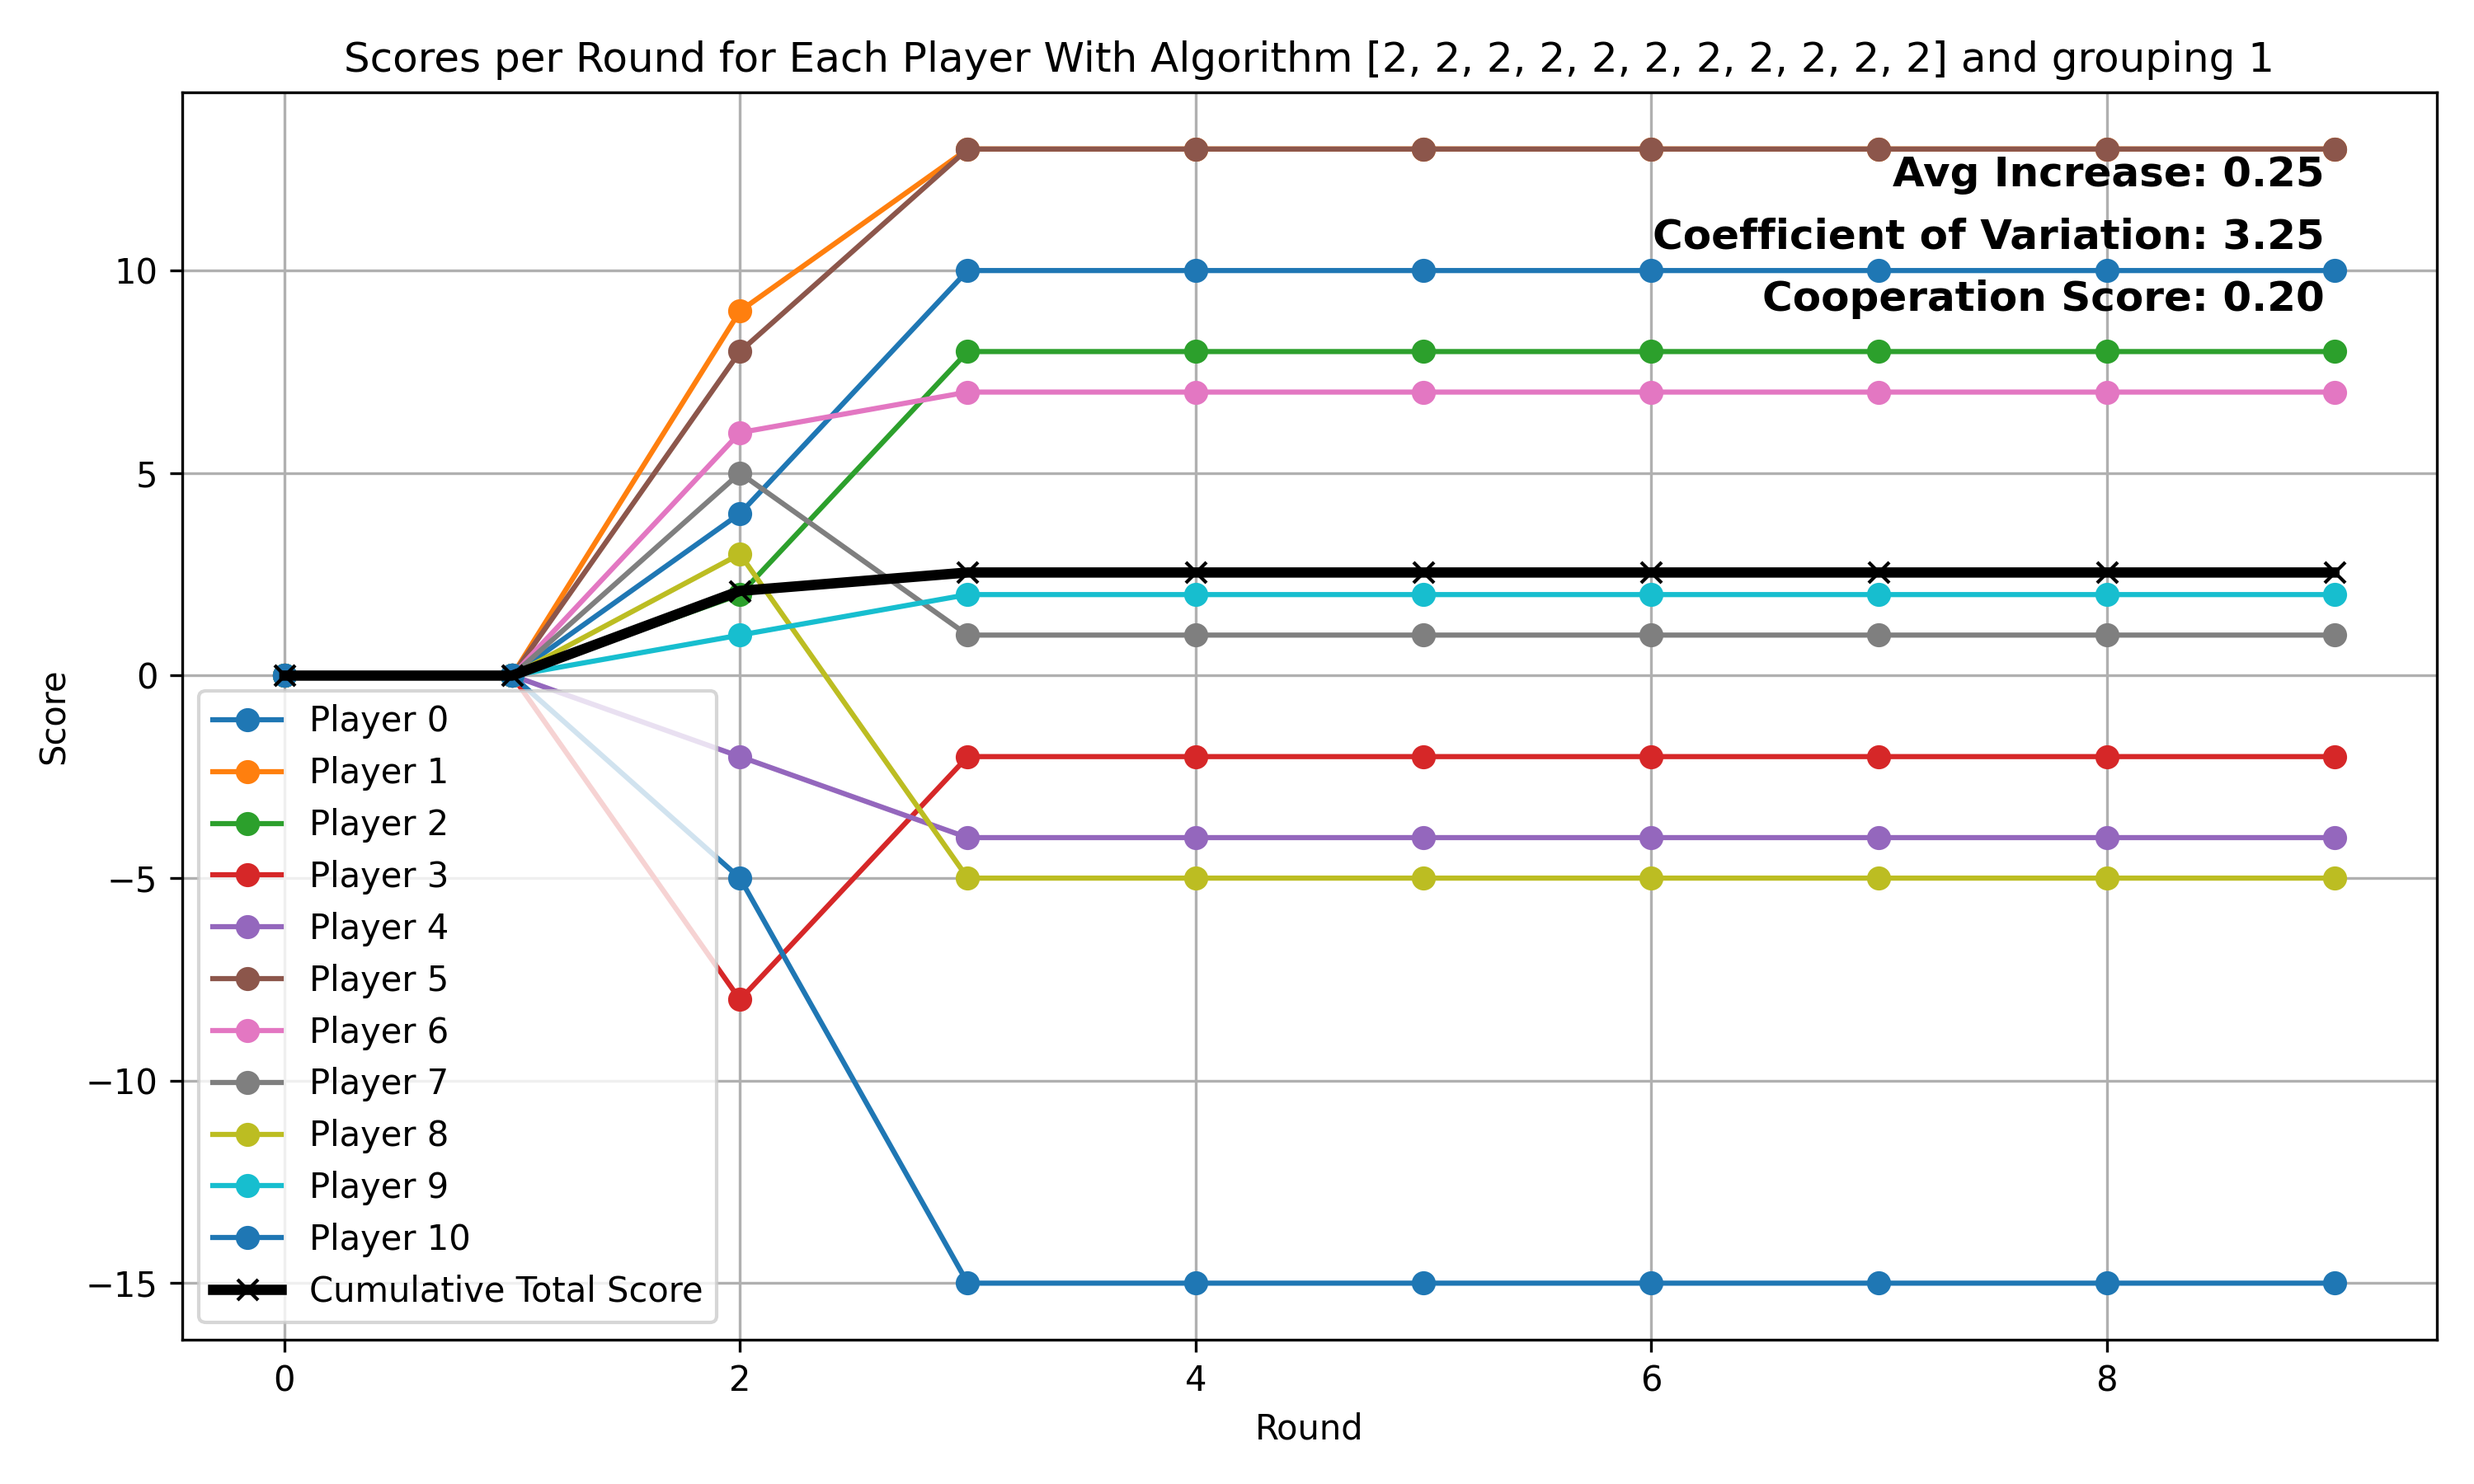
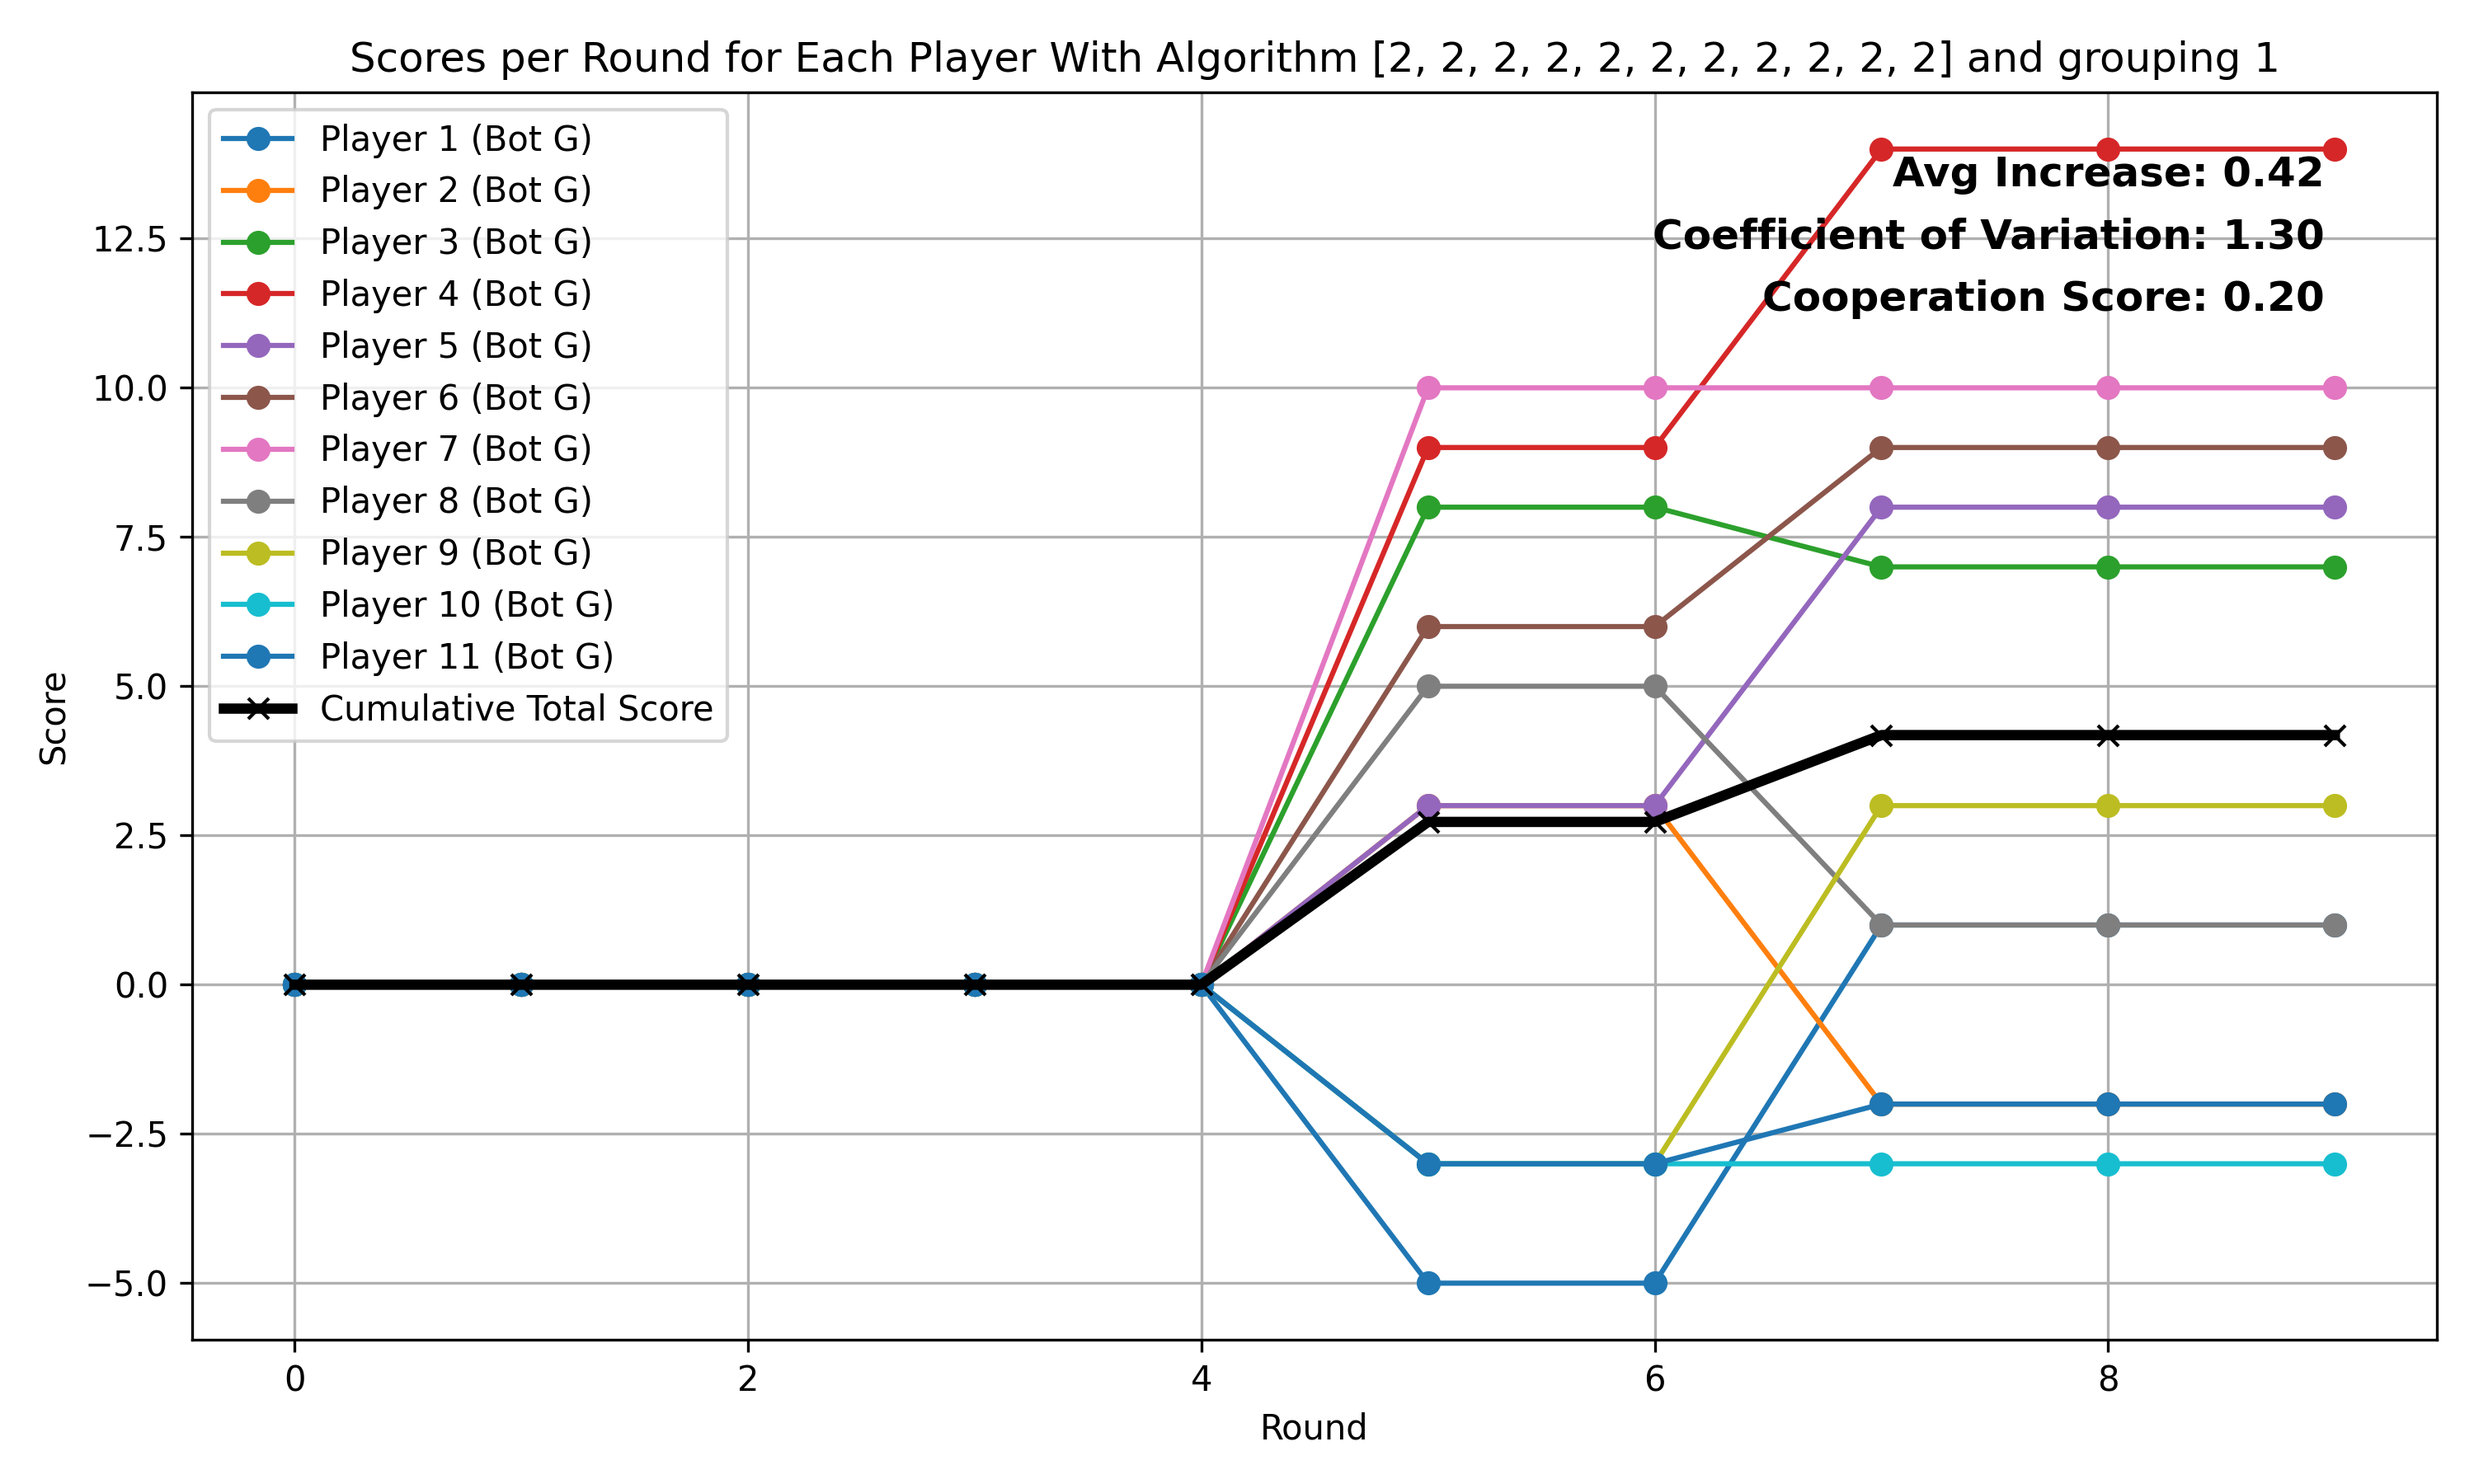
all logging tools are a go
all logging tools are a go. now onto trying to do things with players so they get logged as well.

diff --git a/offlineSimStuff/variousGraphingTools/causeNodeGraphVisualizer.py b/offlineSimStuff/variousGraphingTools/causeNodeGraphVisualizer.py
@@ -8,6 +8,7 @@ import matplotlib.gridspec as gridspec
 from pathlib import Path
 from matplotlib.patches import Patch
 import os
+import numpy as np # for col sums
 
 class causeNodeGraphVisualizer:
     def __init__(self):
@@ -66,7 +67,9 @@ class causeNodeGraphVisualizer:
         ax_matrix.axis('off')
 
         num_rows = len(current_options_matrix)
-        max_cols = max(len(row) for row in current_options_matrix) if current_options_matrix else 0
+        matrix_array = np.array(current_options_matrix)
+        col_sums = matrix_array.sum(axis=0)
+        best_option = int(np.argmax(col_sums)) + 1  # gets the index of the best option and adds one to it
 
         for i in range(num_rows):
             vote = all_votes.get(i) # tries to get it through an int first, from real time execution
@@ -85,8 +88,18 @@ class causeNodeGraphVisualizer:
                            fontfamily='monospace',
                            bbox=dict(boxstyle='round,pad=0.2', facecolor='whitesmoke', edgecolor='gray'))
 
+        # code to add teh column sums
+        best_option = int(np.argmax(col_sums)) + 1  # +1 to match display indexing
+        formatted_sums = " ".join(f"{val:>2}" for val in col_sums)
+        sum_text = f"Σ  | {formatted_sums} | {best_option:>2}"
+
+        ax_matrix.text(0, -num_rows, sum_text, ha='left', va='center', fontsize=12,
+                       fontfamily='monospace',
+                       bbox=dict(boxstyle='round,pad=0.2', facecolor='#e6f2ff', edgecolor='gray'))
+
+        # Update the plot limits to make space for the sum row + winning vote
         ax_matrix.set_xlim(-1, 10)
-        ax_matrix.set_ylim(-num_rows, 1)
+        ax_matrix.set_ylim(-num_rows - 3, 1)
 
         # --- Add Winning Vote Text Below Matrix ---
         ax_matrix.text(1, -num_rows - 1, f"Winning vote: {winning_vote + 1}", ha='left', va='center',
@@ -164,10 +177,17 @@ class causeNodeGraphVisualizer:
         fig.subplots_adjust(wspace=0.01, left=0.05, right=0.95, top=0.95, bottom=0.15)  # Adjust bottom margin
         # print("This is the round at the end!! ", curr_round)
 
+
+
         my_path = os.path.dirname(os.path.abspath(__file__))
-        plt.savefig(my_path + "/individualRoundGraphs/ round " + str(curr_round + 1) + str(" ") + str("cycle ") + str(
-            cycle) + str(" group ") + str(group) + str(" scenario ") + str(scenario),
-                    dpi=300)  # I want it to have the round, and cycle, and that shoudl do it
-        plt.show()
+        scenario_str = f"scenario_{scenario}"
+        group_str = f"group_{group}"
+        file_name = f"round_{curr_round+1}_cycle_{cycle}.png"
+        dir_path = os.path.join(my_path, "individualRoundGraphs", scenario_str, group_str)
+        os.makedirs(dir_path, exist_ok=True)
+        full_path = os.path.join(dir_path, file_name)
+
+        plt.savefig(full_path, dpi=300)  # I want it to have the round, and cycle, and that shoudl do it
+        #plt.show()
 
 

diff --git a/offlineSimStuff/variousGraphingTools/longTermGrapher.py b/offlineSimStuff/variousGraphingTools/longTermGrapher.py
@@ -27,6 +27,20 @@ class longTermGrapher():
 
 
     def draw_graph(self, results, cooperation_score, bot_type, num_rounds, scenario, group):
+
+        bot_name_map = {
+            "0": "random",
+            "1": "sW",
+            "2": "G",
+            "3": "bG",
+            "4": "lA",
+            "5": "sC",
+            "6": "sMA",
+            "7": "gMDP",
+        }
+
+
+
         sums_per_round = {}
         for bot in results:
             sums_per_round[bot] = []
@@ -67,8 +81,11 @@ class longTermGrapher():
         plt.figure(figsize=(10, 6))
 
         # goes through that big ol fetcher and plots all the polayer socres per round
-        for player, scores_list in sums_per_round.items():
-            plt.plot(rounds, scores_list, marker='o', label=f'Player {player}')
+        for i, (player, scores_list) in enumerate(sums_per_round.items()):
+            bot_type_id = bot_type[int(player)]  # player is likely a string, ensure int
+            bot_type_name = bot_name_map.get(bot_type_id, f"Bot {bot_name_map[str(bot_type_id)]}")
+            label = f'Player {int(player) + 1} ({bot_type_name})'
+            plt.plot(rounds, scores_list, marker='o', label=label)
 
         plt.plot(rounds, cumulative_average_score, marker='x', label='Cumulative Total Score', linewidth=3,
                  color='black')
@@ -117,9 +134,21 @@ class longTermGrapher():
             group_title = "No group"
 
 
-        file_name = "Scenario " + scenario + " Group " + str(group_title) + ".png"
 
         my_path = os.path.dirname(os.path.abspath(__file__))
-        plt.savefig(my_path + "/longTermGrapherFolder/" + file_name, dpi=300)
+        scenario_str = f"scenario_{scenario}"
+        group_str = f"group_{group}"
+        dir_path = os.path.join(my_path, "individualRoundGraphs", scenario_str, group_str)
+        os.makedirs(dir_path, exist_ok=True)
+
+        file_name = f"Scenario {scenario} Group {group_title}.png"
+
+        # Save to longTermGrapherFolder
+        long_term_path = os.path.join(my_path, "longTermGrapherFolder", file_name)
+        plt.savefig(long_term_path, dpi=300)
+
+        # Save to individualRoundGraphs folder
+        full_path = os.path.join(dir_path, file_name)
+        plt.savefig(full_path, dpi=300)
 
         plt.show()

diff --git a/offlineSimStuff/social_choice_test.py b/offlineSimStuff/social_choice_test.py
@@ -46,10 +46,11 @@ def graph_nodes(sim):
     currVisualizer.create_graph_with_sim(sim)
 
 
-def create_sim():
+def create_sim(scenario=None, group=""):
     chromosomes = r"C:/Users/Sean/Documents/GitHub/OtherGarrettStuff/JHG-SC/offlineSimStuff/chromosomes/bGStandard.csv"
     # SUM: this sets the bot list type, so we can have siutaions set up
-    scenario = r"C:\Users\Sean\Documents\GitHub\OtherGarrettStuff\JHG-SC\offlineSimStuff\scenarioIndicator\somewhatMoreAwareGreedy"
+    if scenario is None:
+        scenario = r"C:\Users\Sean\Documents\GitHub\OtherGarrettStuff\JHG-SC\offlineSimStuff\scenarioIndicator\somewhatMoreAwareGreedy"
     cycle = -1 # a negative cycle indicates to me that this is a test - that, or something is really really wrong.
     curr_round = -1
 
@@ -62,19 +63,19 @@ def create_sim():
 if __name__ == "__main__":
     num_rounds = 10
     num_cycles = 3
-    create_graphs = False
+    create_graphs = True
     total_groups = ["",0,1,2]
     scenario_directory = "scenarioIndicator"
 
-    # for scenario_path in os.listdir(scenario_directory):
-    #     scenario = os.path.join(scenario_directory, scenario_path)
-    #     for group in total_groups:
+    for scenario_path in os.listdir(scenario_directory):
+        scenario = os.path.join(scenario_directory, scenario_path)
+        for group in total_groups:
 
-    # current_sim = create_sim(scenario)
-    current_sim = create_sim()
-    current_sim = run_trial(current_sim, num_rounds, num_cycles, create_graphs, "")
-    current_visualizer = longTermGrapher()
-    current_visualizer.draw_graph_from_sim(current_sim)
+            current_sim = create_sim(scenario)
+            #current_sim = create_sim()
+            current_sim = run_trial(current_sim, num_rounds, num_cycles, create_graphs, group)
+            current_visualizer = longTermGrapher()
+            current_visualizer.draw_graph_from_sim(current_sim)
 
 
     # set up a fake round and then graph it

diff --git a/jhg_client.py b/jhg_client.py
@@ -30,8 +30,9 @@ if __name__ == "__main__":
     app = QApplication(sys.argv)
     app.setStyleSheet(load_stylesheet("combinedLayout/style.qss"))
 
-    host = '127.0.0.1'
-    port = 12345
+    host = '10.55.10.49'
+    #host = '127.0.0.1'
+    port = 12346
 
     connection_manager = ClientConnectionManager(host, port)
 
